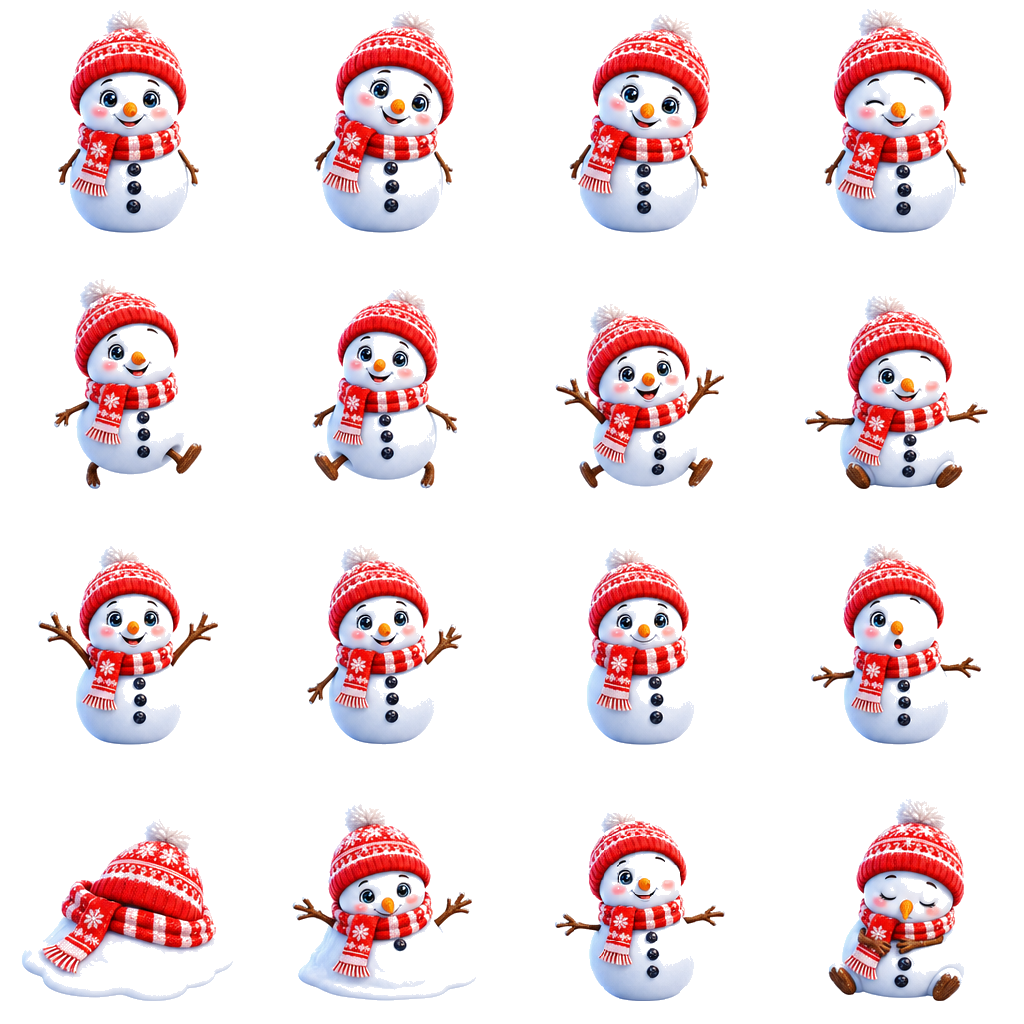
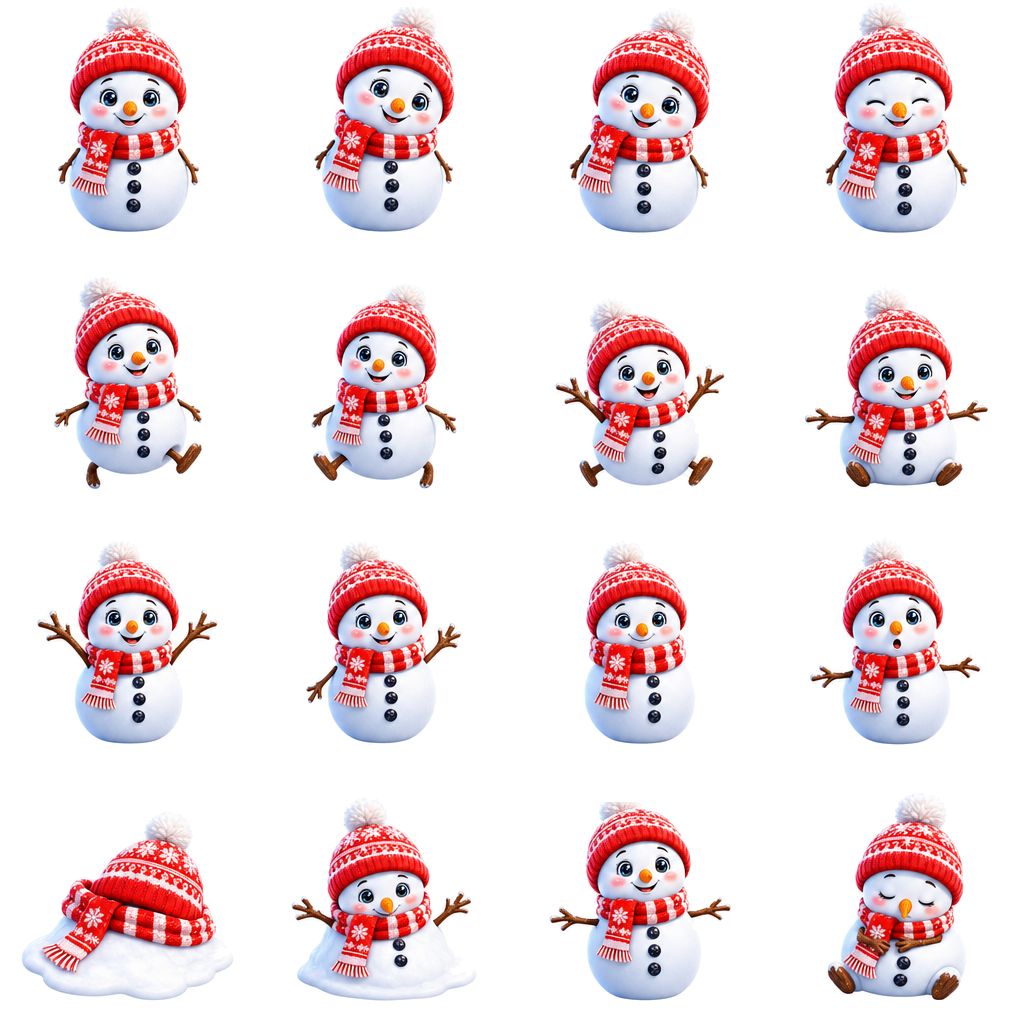
fix(yuki): preservar cuerpo blanco opaco y ajustar umbral térmico

diff --git a/app/src/main/java/com/pixelpals/app/PetView.kt b/app/src/main/java/com/pixelpals/app/PetView.kt
@@ -103,7 +103,7 @@ class PetView(
         PetType.GINGER -> 0.875f        // sit/groom (celda sheet) 0.917 -> 0.802
         PetType.DIABLILLO -> 0.929f     // idle 0.863 -> 0.802
         PetType.PATITO -> 1.317f        // ciclo idle 0.36-0.60 (irregular por diseño)
-        PetType.YUKI -> 0.920f          // idle alto Pixar 0.871 -> 0.802
+        PetType.YUKI -> 0.901f          // idle alto Pixar opaco 0.891 -> 0.802
         PetType.PIRU -> 0.892f          // idle pingüino Pixar 0.898 -> 0.802
         PetType.TARO -> 0.988f          // idle tortuga Pixar 0.812 -> 0.802
         PetType.MENTA -> 0.908f         // idle serpiente Pixar 0.883 -> 0.802
@@ -125,7 +125,7 @@ class PetView(
         PetType.GINGER -> 0.9167f       // sit (idx 0)
         PetType.DIABLILLO -> 0.875f     // idle (idx 0)
         PetType.PATITO -> 0.5951f       // ciclo natación (idx 0)
-        PetType.YUKI -> 0.8711f         // idle Pixar (idx 0), atlas 3D premium
+        PetType.YUKI -> 0.8906f         // idle Pixar opaco (idx 0), atlas 3D premium
         PetType.PIRU -> 0.8984f         // idle pingüino Pixar (idx 0), atlas 3D premium
         PetType.TARO -> 0.8125f         // idle tortuga Pixar (idx 0), atlas 3D premium
         PetType.MENTA -> 0.8828f         // idle serpiente Pixar (idx 0), atlas 3D premium
@@ -150,7 +150,7 @@ class PetView(
         PetType.MOKI -> floatArrayOf(0.8021f, 0.8021f, 0.8021f, 0.8021f, 0.4401f, 0.4193f, 0.4167f, 0.4271f, 0.362f, 0.5651f, 0.7292f, 0.7292f, 0.8021f, 0.4583f, 0.3281f, 0.3411f, 0.8021f, 0.4427f, 0.8021f, 0.3568f)
         PetType.ANGEL -> floatArrayOf(0.9167f, 0.9167f, 0.9167f, 0.7891f, 0.9167f, 0.9167f, 0.7266f, 0.8802f, 0.9167f, 0.9167f, 0.9167f, 0.9167f, 0.9167f, 0.8724f, 0.9167f, 0.9167f)
         PetType.GINGER -> floatArrayOf(0.9167f, 0.9167f, 0.5703f, 0.6484f, 0.6536f, 0.6615f, 0.6667f, 0.6615f, 0.2682f, 0.3229f, 0.2812f, 0.3542f, 0.4531f, 0.4245f, 0.6432f, 0.5365f)
-        PetType.YUKI -> floatArrayOf(0.8711f, 0.8672f, 0.8555f, 0.8750f, 0.8203f, 0.7812f, 0.7227f, 0.7539f, 0.7773f, 0.7812f, 0.7695f, 0.7852f, 0.7109f, 0.7695f, 0.7344f, 0.7891f)
+        PetType.YUKI -> floatArrayOf(0.8906f, 0.8984f, 0.8789f, 0.8984f, 0.8281f, 0.8086f, 0.7461f, 0.7930f, 0.8008f, 0.8047f, 0.8008f, 0.8125f, 0.7422f, 0.7969f, 0.7773f, 0.8125f)
         PetType.PIRU -> floatArrayOf(0.8984f, 0.9062f, 0.8828f, 0.9102f, 0.8594f, 0.8438f, 0.7969f, 0.8047f, 0.8203f, 0.8242f, 0.8516f, 0.8516f, 0.7266f, 0.6602f, 0.8047f, 0.8594f)
         PetType.TARO -> floatArrayOf(0.8125f, 0.8125f, 0.8086f, 0.7656f, 0.9102f, 0.9102f, 0.8398f, 0.8633f, 0.9102f, 0.9102f, 0.9102f, 0.6797f, 0.6055f, 0.6328f, 0.6562f, 0.6797f)
         PetType.MENTA -> floatArrayOf(0.8828f, 0.9062f, 0.8984f, 0.8672f, 0.8203f, 0.8164f, 0.8125f, 0.8203f, 0.6055f, 0.9375f, 0.5703f, 0.9375f, 0.5820f, 0.7344f, 0.5859f, 0.6992f)

diff --git a/app/src/main/java/com/pixelpals/app/feature/overlay/behavior/YukiBehavior.kt b/app/src/main/java/com/pixelpals/app/feature/overlay/behavior/YukiBehavior.kt
@@ -268,7 +268,7 @@ class YukiBehavior(
     }
 
     private companion object {
-        /** A partir de esta temperatura (°C) Yuki empieza a derretirse. */
-        const val MELT_TEMP_C = 36f
+        /** A partir de 40 °C de batería el dispositivo está realmente caliente. */
+        const val MELT_TEMP_C = 40f
     }
 }
